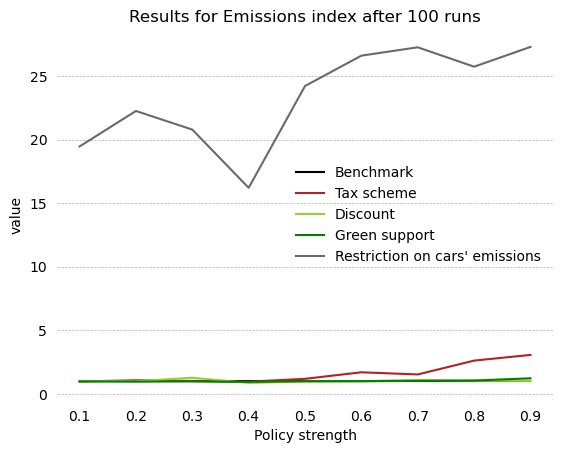
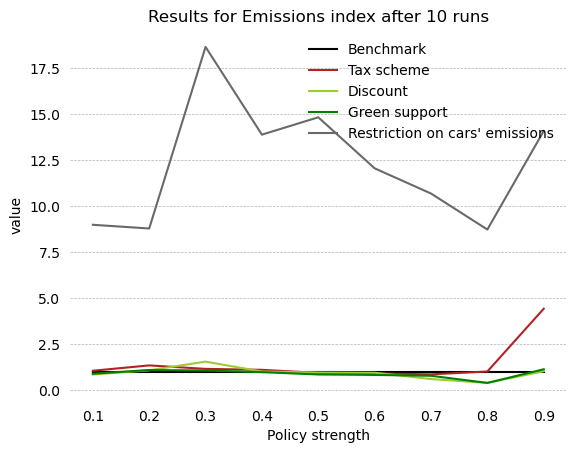
cumulative public expenditure index

diff --git a/generalization.py b/generalization.py
@@ -14,7 +14,7 @@ import model
 notes = {'green_market_share': ['Green market percentage (%)', 'yellowgreen'],
          'new_firms_share': ['Share of new firms (%)', 'dimgrey'],
          'emissions_index': ['Emissions index', 'darkblue'],
-         'public_index': ['Net public expenditure index', 'firebrick']}
+         'public_cumulative': ['Total public expenditure index', 'firebrick']}
 policies_titles = {None: ['Benchmark', 'black'],
                    'tax': ['Tax scheme', 'firebrick'],
                    'discount': ['Discount', 'yellowgreen'],
@@ -109,7 +109,7 @@ def plot_policies(results, levels, n):
         ax.legend(frameon=False)
         ax = plot_details(ax)
         ax.set(xlabel='Policy strength', ylabel='value', title=f'Results for {notes[graph][0]} after {n} runs')
-        plt.savefig(f'results/{graph}.png', bbox_inches='tight')
+        plt.savefig(f'policy_stringent_figures/{graph}.png', bbox_inches='tight')
         plt.show()
     return results
 
@@ -145,7 +145,7 @@ def benchmark(n=10):
 
 if __name__ == '__main__':
     t0 = time.time()
-    m = 100
+    m = 10
     # benchmark(m)
     r, l, m = policies(m)
     plot_policies(r, l, m)

diff --git a/model.py b/model.py
@@ -53,7 +53,7 @@ class Simulation:
         # 'e' is the calculated parameter benchmark, based on sold vehicles and their energy economy
         self.report = pd.DataFrame(columns=['green_market_share', 'new_firms_share',
                                             'emissions', 'emissions_index', 'e',
-                                            'public', 'public_index'])
+                                            'public', 'public_index', 'public_cumulative'])
 
     def create_agents(self):
         for i in range(params.num_firms):
@@ -149,6 +149,7 @@ class Simulation:
                                       for car in firm.cars.values()])
             self.report.loc[self.t, 'public'] = public_expenditure
             base = [b for b in self.report.public if (not np.isnan(b)) and (b != 0)]
+            self.report.loc[self.t, 'public_cumulative'] = sum(base)
             if not base:
                 self.report.loc[self.t, 'public_index'] = 0
             else:
